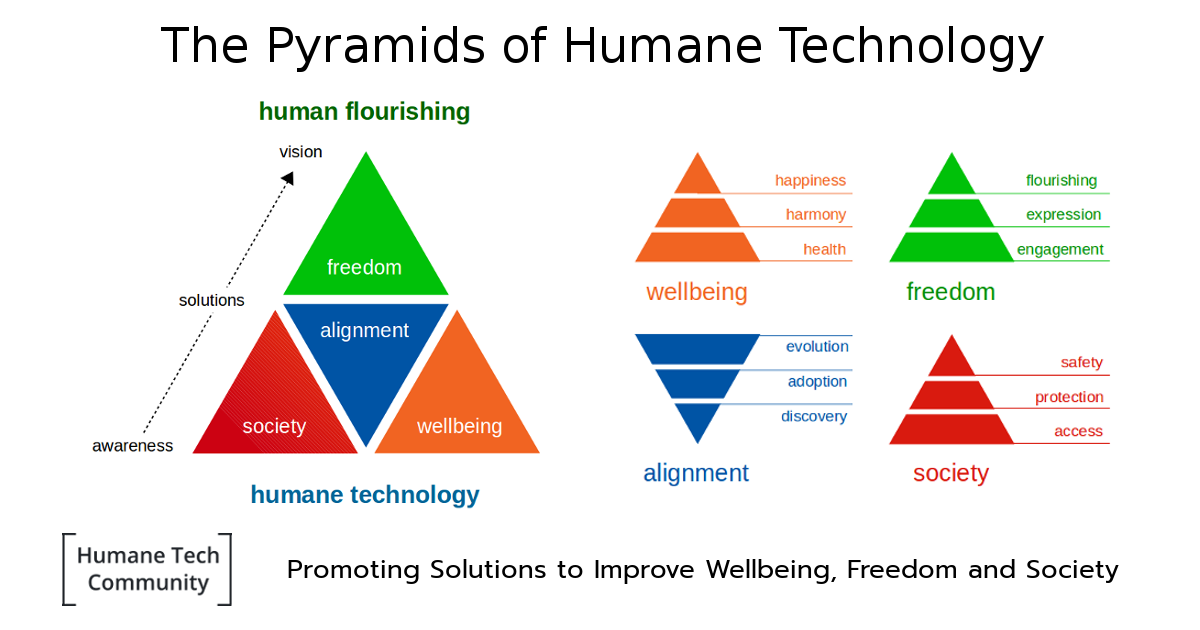
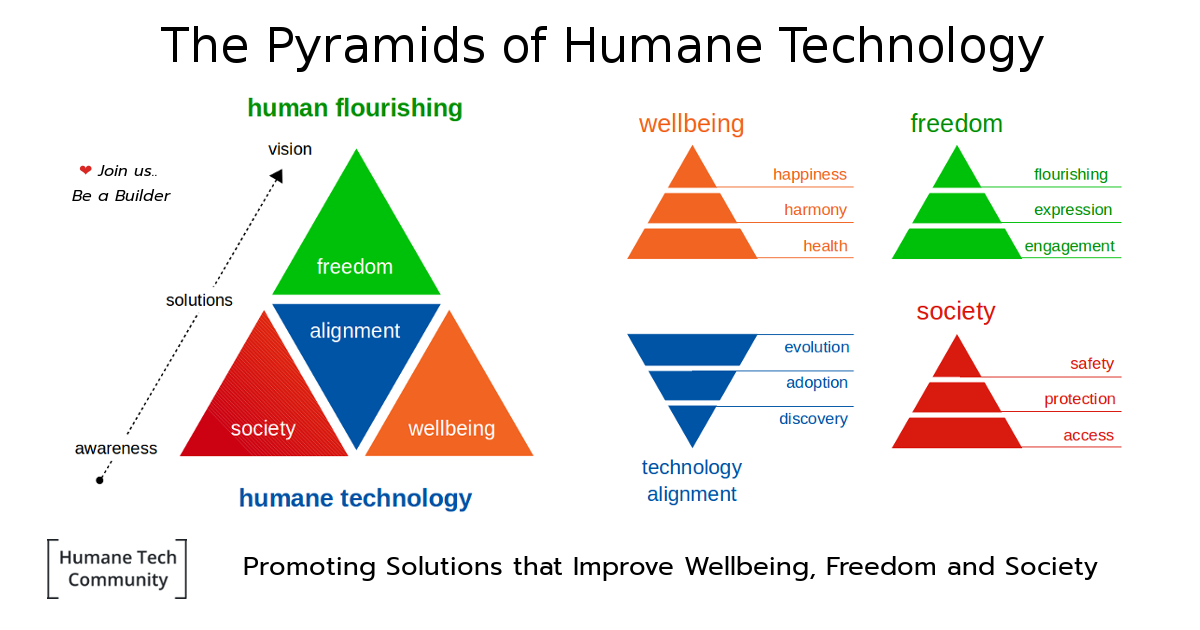
Updated community overview

diff --git a/ideas/humanetech-pyramids-framework/README.md b/ideas/humanetech-pyramids-framework/README.md
@@ -1,12 +1,14 @@
-# Proposal
+# Humane Tech Community Overview
 
-After a brainstorm I'd like to propose the following framework that offers both a more detailed breakdown of the focus areas, as well as a way to elaborate on methodologies and strategy for moving forward.
+![Pyramids of Humane Technology](humanetech-community-overview.png)
 
-## The Pyramids of Humane Technology
+<br/>
 
-![Pyramids of Humane Technology](humanetech-pyramids-of-humane-technology.png) 
+## Pyramids of Humane Technology model
 
 ### Considerations
+
+![Pyramids of Humane Technology](humanetech-pyramids-model.png)
 
 - There are 2 sweet spots that we are pursuing:
   1. **Humane Technology** as the sweet spot of technology innovation
@@ -29,6 +31,14 @@ After a brainstorm I'd like to propose the following framework that offers both 
 - The others are regular shaped, narrowing, as they work towards an elusive goal
 
 - Each pyramid has 3 levels, Maslow-like, where level 3 represents the top
+
+## Breakdown structure
+
+The following paragraphs provide a breakdown of each of the pyramids into their constituent levels.
+
+- Note: The Concepts are indicative of combinations that can be derived in various contexts. They are just examples.
+
+![Pyramids of Humane Technology Details](humanetech-pyramids-breakdown.png)
 
 ### Pyramid of Technology Alignment
 
@@ -56,7 +66,7 @@ Concepts:
 | :---: | :--- | :--- |
 | 1. | **access** | availability, accessability, structure | 
 | 2. | **protection** | rights, regulation, security, privacy, trust | 
-| 3. | **safety** | interaction, communication, behavior, civility |
+| 3. | **safety** | interaction, communication, behavior, civility, inclusiveness, confidence |
 
 ### Pyramid of Wellbeing
 
@@ -67,9 +77,9 @@ Concepts:
 
 | |Level | Topics |
 | :---: | :--- | :--- |
-| 1. | **health** | mental, physical, mindful | 
-| 2. | **harmony** | balance, inter-personal, social, diversity | 
-| 3. | **happiness** | wholesomeness, acceptance, inclusiveness |
+| 1. | **health** | mental, physical, social skills | 
+| 2. | **harmony** | balance, inter-personal, social network, diversity, culture | 
+| 3. | **happiness** | wholesomeness, acceptance, mindfulness |
 
 ### Pyramid of Freedom
 
@@ -81,18 +91,7 @@ Concepts:
 
 | |Level | Topics |
 | :---: | :--- | :--- |
-| 1. | **engagement** | freedom of speech, information and expression | 
+| 1. | **engagement** | participation, freedom of speech, information and expression | 
 | 2. | **expression** | creativity, human values, genuine emotions | 
-| 3. | **flourishing** | purpose, synergy, optimism, confidence, vision, direction |
+| 3. | **flourishing** | purpose, synergy, optimism, vision, direction |
 
----
-
-From here another diagram can be created, showing the four pyramid in detail:
-
-![Pyramids of Humane Technology Details](humanetech-pyramids-of-humane-technology2.png)
-
-## Humane Tech Community overview
-
-All in all this is the complete diagram (1200 x 330 px) that provides the overview:
-
-![Pyramids of Humane Technology Details](humanetech-community-overview.png)
